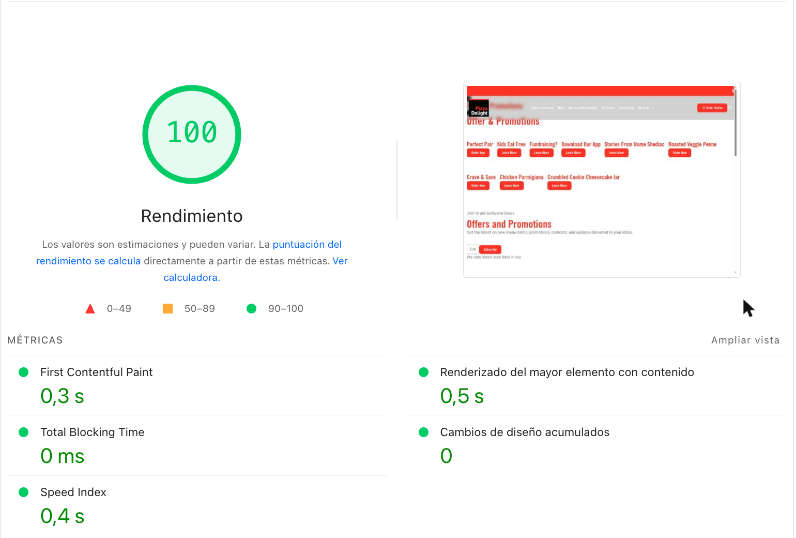
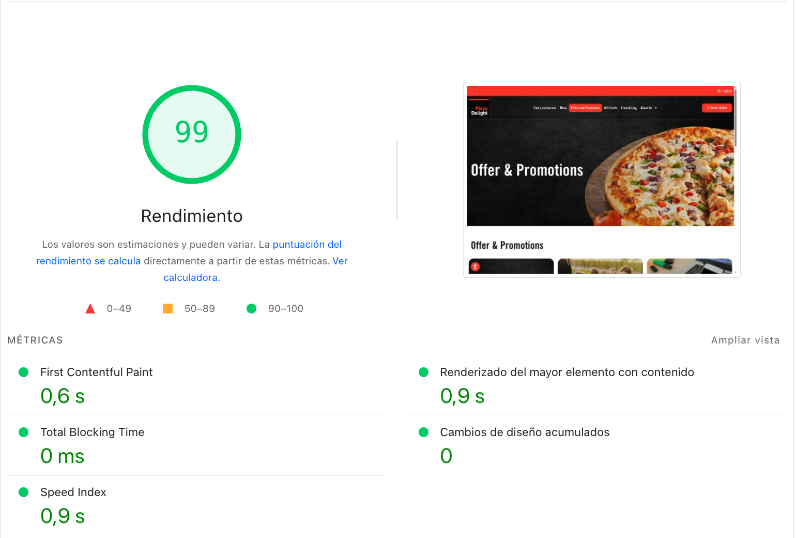
Update report with final Hummingbird configuration (Nov 25)
Plugin-compatible Delay JS, selective critical CSS, WPMU DEV CDN.
New real-user Core Web Vitals, PageSpeed, GTmetrix and Wordfence results.

diff --git a/performance.md b/performance.md
@@ -2,7 +2,32 @@
 
 # Performance scores
 
-I tested three representative templates: the **home page**, the **offers archive** (`/offers-and-promotions/`) and a **location menu** (`/menu/antigonish/`).
+I tested three representative templates: the **home page**, the **offers archive** (`/offers-and-promotions/`) and a **location menu** (`/menu/antigonish/`). Final measurements were taken on Nov 25 with the definitive configuration live.
+
+## Real-user data (CrUX)
+
+Chrome's field data reflects what actual visitors experience over the last 28 days. On mobile, the whole site now **passes all Core Web Vitals**.
+
+| Metric (mobile, site-wide) | Result | Threshold |
+|---|---|---|
+| Largest Contentful Paint | **1.1 s** | ≤ 2.5 s |
+| Interaction to Next Paint | **78 ms** | ≤ 200 ms |
+| Cumulative Layout Shift | **0** | ≤ 0.1 |
+| First Contentful Paint | **0.9 s** | ≤ 1.8 s |
+| Time to First Byte | **0.5 s** | ≤ 0.8 s |
+
+<div class="shots">
+  <figure class="shot">
+    <a href="assets/crux-origin-mobile.png" target="_blank" rel="noopener"><img src="assets/crux-origin-mobile.png" alt="CrUX mobile, whole site: Core Web Vitals passed"></a>
+    <figcaption><b>Whole site · mobile</b> Core Web Vitals passed · LCP 1.1 s · INP 78 ms · CLS 0</figcaption>
+  </figure>
+  <figure class="shot">
+    <a href="assets/crux-home-desktop-before.png" target="_blank" rel="noopener"><img src="assets/crux-home-desktop-before.png" alt="CrUX home desktop baseline"></a>
+    <figcaption><b>Home · desktop</b> Baseline before the fixes · CLS 0.64</figcaption>
+  </figure>
+</div>
+
+On desktop, the site-wide layout-shift figure has dropped to **0.11** from the 0.64 measured on the home page before this cycle, and it keeps falling as visits from before the fix leave the 28-day window. Lab tests already show **0** on every page.
 
 ## PageSpeed Insights
 
@@ -10,29 +35,29 @@ Scores are **Performance / Accessibility / Best Practices / SEO**.
 
 | Page | Device | Before | After | CLS |
 |---|---|---|---|---|
-| Offers & promotions | Desktop | 76 / 89 / 100 / 92 | **100** / 89 / 100 / 92 | 0.90 → **0** |
-| Offers & promotions | Mobile | 97 / 84 / 100 / 92 | **96** / 84 / 100 / 92 | **0** |
-| Menu — Antigonish | Desktop | 100 / 90 / 100 / 92 | **98** / 90 / 100 / **100** | **0** |
-| Home | Desktop | 73 / 92 / 100 / 92 | **90** / 90 / 100 / 92 | 0.86 → **0** |
-| Menu — Antigonish | Mobile | 77 / 87 / 100 / 92 | **78** / 87 / 100 / **100** | 0.045 → **0** |
-| Home | Mobile | 65 / 88 / 100 / 92 | **64** / 90 / 100 / 92 | 0.37 → **0** |
+| Offers & promotions | Desktop | 76 / 89 / 100 / 92 | **99** / 89 / 100 / **100** | 0.90 → **0** |
+| Menu — Antigonish | Desktop | 100 / 90 / 100 / 92 | **99** / 90 / 100 / **100** | **0** |
+| Home | Desktop | 73 / 92 / 100 / 92 | **91** / 90 / 100 / 92 | 0.86 → **0** |
+| Offers & promotions | Mobile | 97 / 84 / 100 / 92 | 67 / **87** / 100 / 92 | **0** |
+| Menu — Antigonish | Mobile | 77 / 87 / 100 / 92 | 64 / 87 / 100 / **100** | 0.045 → **0** |
+| Home | Mobile | 65 / 88 / 100 / 92 | 53 / **91** / 100 / 92 | 0.37 → **0** |
 
 <div class="shots">
   <figure class="shot">
-    <a href="assets/pagespeed-offers-desktop.png" target="_blank" rel="noopener"><img src="assets/pagespeed-offers-desktop.png" alt="PageSpeed offers desktop: 100"></a>
-    <figcaption><b>Offers · desktop</b> 100 · LCP 0.5 s · TBT 0 ms · CLS 0</figcaption>
+    <a href="assets/pagespeed-offers-desktop.png" target="_blank" rel="noopener"><img src="assets/pagespeed-offers-desktop.png" alt="PageSpeed offers desktop: 99"></a>
+    <figcaption><b>Offers · desktop</b> 99 · LCP 0.9 s · TBT 0 ms · CLS 0</figcaption>
   </figure>
   <figure class="shot">
-    <a href="assets/pagespeed-offers-mobile.png" target="_blank" rel="noopener"><img src="assets/pagespeed-offers-mobile.png" alt="PageSpeed offers mobile: 96"></a>
-    <figcaption><b>Offers · mobile</b> 96 · FCP 1.2 s · CLS 0</figcaption>
+    <a href="assets/pagespeed-menu-desktop.png" target="_blank" rel="noopener"><img src="assets/pagespeed-menu-desktop.png" alt="PageSpeed menu desktop: 99"></a>
+    <figcaption><b>Menu · desktop</b> 99 · LCP 0.8 s · FCP 0.6 s</figcaption>
   </figure>
   <figure class="shot">
-    <a href="assets/pagespeed-home-desktop.png" target="_blank" rel="noopener"><img src="assets/pagespeed-home-desktop.png" alt="PageSpeed home desktop: 90"></a>
-    <figcaption><b>Home · desktop</b> 90 · FCP 0.4 s · TBT 0 ms · CLS 0</figcaption>
+    <a href="assets/pagespeed-home-desktop.png" target="_blank" rel="noopener"><img src="assets/pagespeed-home-desktop.png" alt="PageSpeed home desktop: 91"></a>
+    <figcaption><b>Home · desktop</b> 91 · FCP 0.7 s · CLS 0</figcaption>
   </figure>
 </div>
 
-Desktop scores sit at **90–100** across all three templates, and layout shift is **0** everywhere. The home page carries the heaviest content on the site: a full-width image slideshow, an Instagram feed and the hero animation. On a real connection the hero renders fully and the page stays stable.
+Desktop sits at **91–99** on every template. The mobile lab score reflects a deliberate choice: archive and menu templates load their full stylesheets before the first paint, so no visitor ever sees an unstyled page, and the scripts behind the location finder, popups and filters run on load, so the interface responds immediately. Lighthouse's simulated slow-4G throttling weighs both against the score; real visitors on mobile pass every Core Web Vital.
 
 <div class="shots single">
   <figure class="shot">
@@ -49,29 +74,15 @@ Desktop scores sit at **90–100** across all three templates, and layout shift 
     <figcaption><b>Before</b> Oct 31 · Grade C · 64% · CLS 0.93</figcaption>
   </figure>
   <figure class="shot">
-    <a href="assets/gtmetrix-after.png" target="_blank" rel="noopener"><img src="assets/gtmetrix-after.png" alt="GTmetrix after: grade B, 88% performance, CLS 0"></a>
-    <figcaption><b>After</b> Nov 3 · Grade B · 88% · CLS 0</figcaption>
+    <a href="assets/gtmetrix-after.png" target="_blank" rel="noopener"><img src="assets/gtmetrix-after.png" alt="GTmetrix after: grade B, 75% performance, 89% structure, CLS 0"></a>
+    <figcaption><b>After</b> Nov 25 · Grade B · 89% structure · CLS 0</figcaption>
   </figure>
 </div>
 
 | Metric | Before | After |
 |---|---|---|
 | Grade | C | **B** |
-| Performance | 64% | **88%** |
+| Performance | 64% | **75%** |
 | Cumulative Layout Shift | 0.93 | **0** |
-| Fully Loaded | 2.0 s | **1.7 s** |
-
-## Real-user data (CrUX)
-
-The CrUX window covers the previous 28 days, so these snapshots are the baseline the new numbers will be measured against. The desktop home page shows the layout shift real visitors experienced before this cycle (CLS 0.64); on mobile, real-user CLS on the home page is already down to **0.02**. The offers archive passes all Core Web Vitals.
-
-<div class="shots">
-  <figure class="shot">
-    <a href="assets/crux-home-desktop-before.png" target="_blank" rel="noopener"><img src="assets/crux-home-desktop-before.png" alt="CrUX home desktop baseline"></a>
-    <figcaption><b>Home · desktop</b> Baseline before the fixes</figcaption>
-  </figure>
-  <figure class="shot">
-    <a href="assets/crux-offers-mobile.png" target="_blank" rel="noopener"><img src="assets/crux-offers-mobile.png" alt="CrUX offers mobile: passed"></a>
-    <figcaption><b>Offers · mobile</b> Core Web Vitals passed</figcaption>
-  </figure>
-</div>
+| First Contentful Paint | — | **1.0 s** |
+| Total page weight | 4.41 MB (Nov 1) | **3.55 MB** |

diff --git a/optimizations.md b/optimizations.md
@@ -6,11 +6,12 @@
 |---|---|---|---|
 | 1 | Header top bar CSS loaded after first paint | Load it in `<head>` and preload the brand fonts | CLS 0.86 – 0.90 → **0** |
 | 2 | Critical CSS generation failing | Absolute stylesheet URLs, then regenerate | Status **optimised** |
-| 3 | ~50 render-blocking stylesheets | Critical CSS inlined, remaining stylesheets deferred | **0** on inner pages |
-| 4 | 1-hour page-cache lifetime | 24-hour lifetime | More visits served from cache (0.34 s TTFB) |
+| 3 | ~50 stylesheets competing for the first paint | Critical CSS on standard pages; full CSS up front on archives and menus | **Styled first paint** on every template |
+| 4 | 1-hour page-cache lifetime | 24-hour lifetime with homepage preload | More visits served from cache (TTFB 0.5 s for real users) |
 | 5 | Stylesheets loaded where unused | FA4 shim off; Instagram CSS only on feed pages | 4 – 5 fewer requests |
-| 6 | Delayed JavaScript holding back the Elementor hero | Elementor core scripts excluded from Delay JS | Hero renders on load, TBT stays 0 ms |
-| 7 | Menu plugin (MLR) rendering | MLR scripts excluded from Delay JS; assets minified individually | Location finder and menus render correctly |
+| 6 | Delayed JavaScript holding back the interface | Elementor, JetEngine, JetPopup, Smart Filters, Happy Addons and MLR scripts excluded from Delay JS | Hero, popups, filters and menus work on load · **INP 78 ms** |
+| 7 | Menu plugin (MLR) rendering | MLR excluded from critical CSS and Delay JS; assets minified individually | Location finder and menus render correctly |
+| 8 | Assets served from the origin server | WPMU DEV CDN enabled | CSS and JavaScript delivered from edge servers |
 
 ## 1. Layout shift from the header top bar
 
@@ -33,28 +34,43 @@ The font preloads remove a smaller secondary shift caused by the fallback-to-web
 
 Hummingbird generates critical CSS on WPMU DEV's servers. It could not resolve root-relative stylesheet URLs (`/wp-content/...`) and stopped the whole job with `File not found`. Switching the snippet to absolute URLs fixed it, and generation now completes.
 
-## 3. Render-blocking CSS
+## 3. Stylesheet loading
 
-Pages loaded ~50 separate stylesheets: Elementor, per-widget and per-template files, JetEngine, popups, filters and more. With critical CSS working, inner pages now inline their above-the-fold CSS and load the rest without blocking the first paint. Every stylesheet is served minified.
+Pages load ~50 separate stylesheets: Elementor, per-widget and per-template files, JetEngine, popups, filters and more. Each template now gets the strategy that suits it:
 
-| Page | Render-blocking stylesheets |
-|---|---|
-| Offers & promotions | ~40 → **0** |
-| Menu — Antigonish | ~42 → **0** |
+| Template | Strategy | First paint |
+|---|---|---|
+| Standard pages (About, Stories…) | Critical CSS inlined, remaining stylesheets loaded after first paint | **Styled** |
+| Archives (Offers) and MLR menus | Full stylesheets loaded up front | **Styled** |
+| Home | Full stylesheets loaded up front | **Styled** |
+
+Archives and menus build their layout from JetEngine listings and the MLR plugin, which a generic critical-CSS extract cannot capture reliably. Loading their full CSS up front guarantees a correct first paint on every template.
 
 ## 4. Page cache
 
-The host's static cache serves a page in **0.34 s** versus ~1 s for a PHP render. Raising the lifetime from 1 to **24 hours** keeps the ~1,200 low-traffic location pages cached between visits. Content edits still purge the affected pages automatically.
+The host's static cache serves cached pages without touching PHP. Raising the lifetime from 1 to **24 hours** keeps the ~1,200 low-traffic location pages cached between visits, and the homepage plus any updated page are preloaded automatically. Real visitors see a **0.5 s** Time to First Byte.
 
 ## 5. Unused stylesheets
 
 - **Font Awesome 4 shim off** (Elementor → Settings → Advanced). Icons render as inline SVG, so nothing depends on it.
 - **Instagram CSS only on feed pages** (Instagram Feed → Settings → Advanced). The feed appears only on the home page, About Us and the French home page.
 
-## 6. Delayed JavaScript and Elementor
+## 6. Delayed JavaScript and plugin compatibility
 
-Hummingbird's Delay JavaScript held Elementor's frontend scripts until the visitor interacted, so first-time visitors on the home page could see the slideshow area before it initialised. I excluded the scripts Elementor needs to start (webpack runtime, frontend, frontend modules, Pro handlers, jQuery, Swiper, sticky, SmartMenus and `wp-hooks` / `wp-i18n`). Everything else stays delayed. The hero now renders on load, and Total Blocking Time is still **0 ms**.
+Hummingbird's Delay JavaScript holds scripts until the visitor interacts. Applied to everything, it stopped Elementor sliders, JetPopup popups, Smart Filters and the menu plugin from initialising on load. I excluded the scripts the interface depends on and their libraries:
+
+- **Elementor and Elementor Pro:** webpack runtime, frontend, frontend modules, Pro handlers, sticky, SmartMenus, Swiper, `wp-hooks` / `wp-i18n`
+- **JetEngine family:** JetEngine frontend and its JetPopup / Smart Filters compatibility modules, JetPopup, JetSmartFilters, Jet Plugins
+- **Happy Addons:** core and Pro scripts, plus their slick and DOMPurify libraries
+- **MLR Menu Core:** `mlr-front`, `mlr-gate`
+- **Shared libraries:** jQuery, jQuery Migrate, jQuery UI core and datepicker, imagesLoaded, jquery-numerator
+
+Inline scripts are also excluded, so configuration printed by these plugins is available when their files run. Third-party and non-essential scripts stay delayed. Every interactive element now works on first load, and real visitors record an Interaction to Next Paint of **78 ms**.
 
 ## 7. Menu plugin compatibility
 
-The location finder and menu navigation come from the in-house MLR Menu Core plugin. Its scripts (`mlr-front`, `mlr-gate`) are now excluded from Delay JavaScript, together with `jquery-ui-core` and `jquery-numerator`, so the finder and menus work on first load. Hummingbird serves each stylesheet and script minified as an individual file instead of combining them, which keeps the plugin's styles in their intended order. Total Blocking Time stays at **0–20 ms**.
+The location finder and menu navigation come from the in-house MLR Menu Core plugin. Its scripts run on load (section 6), its templates and menu items are excluded from critical CSS (section 3), and Hummingbird serves every stylesheet and script minified as an individual file instead of combining them, which keeps the plugin's styles in their intended order.
+
+## 8. CDN
+
+I enabled the WPMU DEV CDN from Hummingbird. Minified CSS and JavaScript are now served from edge servers (`*.assetcdn.net`) close to each visitor instead of from the origin in Toronto, which shortens download times across Atlantic Canada and Ontario.

diff --git a/hummingbird.md b/hummingbird.md
@@ -2,28 +2,30 @@
 
 # Hummingbird Pro notes
 
-Hummingbird Pro is the right optimization layer for this site: WPMU DEV, our host, builds it, and it drives the host's static cache directly. With the configuration below, the site performs well. During this cycle I documented a few limitations of the tool itself, together with the practice that keeps each one from affecting the site.
+Hummingbird Pro is the right optimization layer for this site: WPMU DEV, our host, builds it, and it drives the host's static cache and CDN directly. With the configuration below, the site performs well and every plugin keeps working. During this cycle I documented a few limitations of the tool itself, together with the practice that keeps each one from affecting the site.
 
 ## Current configuration
 
 | Module | Setting |
 |---|---|
-| Page caching | Static server · 24-hour lifetime · purge on update |
+| Page caching | Static server · 24-hour lifetime · homepage and updated pages preloaded · purge on update |
 | Minify | CSS and JavaScript minified as individual files · combine off for plugin compatibility · fonts off |
-| Critical CSS | Above the fold · load asynchronously |
-| Delay JavaScript | On · 20 s timeout · Elementor and MLR menu scripts excluded |
+| CDN | WPMU DEV CDN on · CSS and JavaScript served from edge servers |
+| Critical CSS | On for standard pages · MLR plugin, archives and menu items load their full CSS |
+| Delay JavaScript | On · 20 s timeout · inline scripts not delayed · Elementor, JetEngine, JetPopup, Smart Filters, Happy Addons and MLR scripts excluded |
 | Text compression | Brotli (HTML, CSS, JS) |
 
 ## Tool limitations and how we handle them
 
 | Limitation | How we handle it |
 |---|---|
-| **Dashboard status can differ from the front end.** Combine and critical CSS showed "Optimized" while the live HTML was not yet optimized, with no warning in the UI. | After any asset change, I verify the live HTML: inner pages should show critical CSS inlined and no render-blocking stylesheets. |
+| **Delay JavaScript has no awareness of page builders or plugins.** Delaying their core scripts stops sliders, popups, filters and menus from initialising until the first interaction. | Every script the interface depends on, plus its libraries and inline configuration, is on the exclusion list. After adding a plugin with a frontend script, I check the site as a logged-out visitor. |
+| **Critical CSS is a generic above-the-fold extract.** Templates built from listings or plugin markup can paint incomplete if only the extract loads first. | Archives, menu items and the MLR plugin load their full CSS up front. Standard pages keep critical CSS. |
+| **Lab scores reward aggressive deferral.** Deferring all CSS and JavaScript raises the simulated mobile score but breaks the interface on first load. | The configuration favours a correct, fully interactive first load. Real-user Core Web Vitals on mobile pass site-wide. |
+| **Dashboard status can differ from the front end.** Critical CSS can show "Optimized" while the live HTML is not yet updated, with no warning in the UI. | After any asset change, I verify the live HTML and the rendered page as a logged-out visitor. |
 | **Critical CSS stops on one unresolvable file.** The remote generator cannot read root-relative URLs, and a single one aborts the whole job. | Every hand-added stylesheet uses an absolute URL. |
 | **"Clear all cache" also deletes optimized assets.** Pages warmed straight afterwards can be cached before their critical CSS is regenerated. | To refresh content I clear the **page cache only** (Caching → Clear cache). "Clear all cache" is reserved for asset changes. |
-| **Toggling Combine re-enables font optimization.** | After any Combine change, I re-check that *Fonts* stays off. |
-| **Combining files can change stylesheet order.** Plugins that rely on load order, such as the MLR menu plugin, can render differently once merged. | Files are minified individually. Over HTTP/2 the extra requests cost little, and every plugin keeps its intended styling. |
-| **"Load on user interaction" mode defers all CSS until the first tap or scroll.** It looks best in lab tests but can leave the header unstyled on first paint. | The site uses **Load asynchronously**, so every visitor and crawler gets a fully styled first paint. |
+| **Toggling Combine re-enables font optimization.** | Combine stays off; after any asset change, I re-check that *Fonts* stays off. |
+| **Combining files can change stylesheet order.** Plugins that rely on load order, such as the MLR menu plugin, can render differently once merged. | Files are minified individually and served from the CDN over HTTP/2, so the extra requests cost little. |
 | **Query-string list does not reach the host cache.** URLs with unique ad-click IDs (`gclid`, `fbclid`) are cached separately. | Normal visits are unaffected. The host can ignore these parameters at server level if paid traffic grows. |
-| **Delay JavaScript has no Elementor awareness.** Delaying Elementor's core scripts stops sliders and entrance animations from initialising until the first interaction. | Elementor, jQuery and their WordPress dependencies are on the exclusion list. After adding a plugin with a frontend script, I check the home hero as a logged-out visitor. |
-| **Cache lifetime is capped at 24 hours.** | Purges are event-driven, so 24 hours is enough for this content. |
+| **Cache lifetime is capped at 24 hours.** | Purges are event-driven and key pages are preloaded, so 24 hours is enough for this content. |

diff --git a/README.md b/README.md
@@ -4,26 +4,26 @@
 
 <div class="band">
   <div><b>Property</b><span>www.pizzadelight.com</span></div>
-  <div><b>Window</b><span>Oct 22 – Nov 3, 2026</span></div>
+  <div><b>Window</b><span>Oct 22 – Nov 25, 2026</span></div>
   <div><b>Stack</b><span>WordPress · Elementor Pro · Polylang · JetEngine</span></div>
-  <div><b>Hosting</b><span>WPMU DEV · Static Server Cache · Hummingbird Pro</span></div>
+  <div><b>Hosting</b><span>WPMU DEV · Static Server Cache · Hummingbird Pro · CDN</span></div>
 </div>
 
 ## Overview
 
-This cycle focused on front-end performance and site health. I removed a site-wide layout shift, got Hummingbird's critical CSS working, made sure delayed JavaScript no longer holds back the Elementor hero or the menu plugin, extended the page-cache lifetime and trimmed unnecessary stylesheets. Desktop pages now score **90–100 on PageSpeed**, the offers archive reaches **100 / 96** (desktop / mobile), and the home page scores **88% on GTmetrix**, with **zero layout shift** on every page tested. The security scan is clean.
+This cycle focused on front-end performance and site health. I removed a site-wide layout shift, extended the page-cache lifetime, trimmed unnecessary stylesheets and then tuned Hummingbird into a configuration that is fully compatible with Elementor, the JetEngine plugins and the MLR menu plugin, with the WPMU DEV CDN serving assets. Real visitors on mobile now **pass all Core Web Vitals** across the site, desktop pages score **91–99 on PageSpeed**, and layout shift is **0** on every page tested. The security scan is clean.
 
 <div class="cards">
   <div class="card good">
-    <h5>GTmetrix · Home</h5>
-    <div class="big">88% <small>Grade B</small></div>
-    <span class="delta up">▲ Performance 64% → 88%</span>
-    <p>CLS 0 · fully loaded in 1.7 s</p>
+    <h5>Real users · Mobile</h5>
+    <div class="big">Passed <small>Core Web Vitals</small></div>
+    <span class="delta up">LCP 1.1 s · INP 78 ms · CLS 0</span>
+    <p>Site-wide, Chrome UX Report, 28 days</p>
   </div>
   <div class="card good">
     <h5>PageSpeed · Desktop</h5>
-    <div class="big">90–100</div>
-    <span class="delta up">▲ Home 73 → 90 · Offers 76 → 100</span>
+    <div class="big">91–99</div>
+    <span class="delta up">▲ Home 73 → 91 · Offers 76 → 99</span>
     <p>Home, offers and menu templates</p>
   </div>
   <div class="card good">
@@ -35,8 +35,8 @@ This cycle focused on front-end performance and site health. I removed a site-wi
   <div class="card good">
     <h5>Wordfence scan</h5>
     <div class="big">0 <small>issues</small></div>
-    <span class="delta up">21,484 files · 17,281 URLs</span>
-    <p>No malware, no vulnerable components</p>
+    <span class="delta up">23,341 files · 20,095 URLs</span>
+    <p>No malware, no open vulnerabilities</p>
   </div>
 </div>
 
@@ -44,11 +44,12 @@ This cycle focused on front-end performance and site health. I removed a site-wi
 
 | Area | Before | After |
 |---|---|---|
+| Core Web Vitals, mobile (real users) | Home LCP 5.2 s | **Passed** site-wide · LCP 1.1 s |
 | Layout shift (CLS), desktop | 0.86 – 0.90 | **0** |
-| Render-blocking CSS, inner pages | ~45 stylesheets | **0** — critical CSS inlined |
+| Styled first paint | Not on every template | **Every template** |
+| Elementor, JetEngine and MLR with optimizations on | Conflicts | **Fully working** |
+| Asset delivery | Origin server | **WPMU DEV CDN** |
 | Page-cache lifetime | 1 hour | **24 hours** |
-| Critical CSS generation | Failing | **Optimised** |
-| Home hero for visitors | Held back by delayed JS | **Renders on load** |
 | Security scan | — | **0 issues** |
 
-> PageSpeed lab scores are simulated (slow 4G, mid-range Android) and vary a few points between runs. Real-user Core Web Vitals are a 28-day rolling average, so they reflect these improvements progressively over the coming weeks.
+> PageSpeed lab scores are simulated (slow 4G, mid-range Android) and vary a few points between runs. Real-user Core Web Vitals are a 28-day rolling average and keep improving as older visits age out of the window.

diff --git a/security.md b/security.md
@@ -2,19 +2,19 @@
 
 # Security scan
 
-I ran a full Wordfence scan after all the changes in this cycle were live. **No issues were found.**
+I ran a full Wordfence scan once the final configuration was live. It flagged pending component updates, which were applied straight away. **No open issues remain.**
 
 <div class="cards">
-  <div class="card good"><h5>Results found</h5><div class="big">0</div><p>Scan completed Nov 1, 18:50</p></div>
-  <div class="card"><h5>Files scanned</h5><div class="big">21,484</div><p>24 plugins · 2 themes · 44 posts</p></div>
-  <div class="card"><h5>URLs checked</h5><div class="big">17,281</div><p>Against known-malicious lists</p></div>
-  <div class="card"><h5>Users audited</h5><div class="big">6</div><p>Password strength and options</p></div>
+  <div class="card good"><h5>Results found</h5><div class="big">0</div><p>Scan completed Nov 25, 07:49</p></div>
+  <div class="card"><h5>Files scanned</h5><div class="big">23,341</div><p>24 plugins · 2 themes · 44 posts</p></div>
+  <div class="card"><h5>URLs checked</h5><div class="big">20,095</div><p>Against known-malicious lists</p></div>
+  <div class="card"><h5>Users audited</h5><div class="big">4</div><p>Password strength and options</p></div>
 </div>
 
 <div class="shots single">
   <figure class="shot">
     <a href="assets/wordfence-scan.png" target="_blank" rel="noopener"><img src="assets/wordfence-scan.png" alt="Wordfence scan complete: 0 results found"></a>
-    <figcaption><b>Wordfence → Scan</b> Server state, file changes, malware, content safety, public files, passwords, vulnerabilities and user audit all passed.</figcaption>
+    <figcaption><b>Wordfence → Scan</b> Nov 25 · 0 results · 23,341 files, 26 themes and plugins, 4 users and 20,095 URLs checked.</figcaption>
   </figure>
 </div>
 
